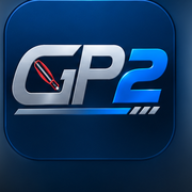
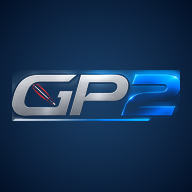
Icono de la app: el GP2 real, y arreglada la causa de la G negra
La causa no era el logo: index.html y login.html no tenian
<link rel="apple-touch-icon">, y iOS no mira el manifest para Agregar a
inicio, mira ese link. Sin el se inventa un icono con la inicial.

Arreglo de fondo: pwa.js inyecta el apple-touch-icon si falta, igual que
ya hacia con manifest y theme-color, y ademas queda escrito en el head
de las cuatro paginas de entrada, porque depender del JS para algo que
iOS lee al instalar es fragil. envios-only.html no tenia nada de PWA: se
le agrego pwa.js.

Iconos rehechos: los que habia eran el favicon de 180px estirado a 512,
o sea borrosos. Ahora salen del logo de 1000px con tools/generar_iconos.py,
que recorta el GP2 metalico con mascara por luminancia y lo apoya sobre un
degradado con los azules de la marca. Antes probe fondo estirado y feather
(los dos dejaban ver el rectangulo del recorte) y usar el favicon de fondo
(daba el GP2 duplicado, porque el favicon ya lo trae dibujado). Genera los
tres del manifest mas apple-touch-icon 180 cuadrado y sin transparencia,
que es lo que iOS necesita para aplicar su propia mascara. Revisado a 180,
120 y 60 px con mascara de iOS y circulo de Android.

Los iconos del manifest llevan token de version: los archivos cambiaron
pero la ruta no, y sin token el telefono se queda con el viejo.

Test nuevo tests/ui/test_pwa_icono.js para que esto no se rompa en
silencio otra vez. Suite 15/15. Version global v1.32.0.

diff --git a/tests/ui/test_pwa_icono.js b/tests/ui/test_pwa_icono.js
@@ -1,0 +1,68 @@
+const { chromium } = require('playwright');
+const path = require('path');
+const fs = require('fs');
+const ROOT_DIR = path.resolve(__dirname, '..', '..');
+const ROOT = 'file://' + ROOT_DIR.replace(/\\/g, '/');
+const EXE = process.env.CHROMIUM_PATH || (fs.existsSync('/opt/pw-browsers/chromium') ? '/opt/pw-browsers/chromium' : undefined);
+
+/* Que el icono de la app llegue al telefono.
+   iOS NO usa el manifest para "Agregar a inicio": usa <link rel="apple-touch-icon">.
+   Cuando index.html y login.html no lo tenian, iOS se inventaba un cuadrado negro
+   con una "G" (2026-08-29). Este test evita que vuelva a pasar en silencio. */
+
+// Paginas desde las que alguien puede agregar la app a la pantalla de inicio.
+// index.html es un redirector (se va solo antes de poder inspeccionar el DOM),
+// asi que ese se chequea sobre el fuente.
+const ENTRADAS = ['GP2_MODULOS.html', 'login.html', 'envios-only.html'];
+
+(async () => {
+  const browser = await chromium.launch(EXE ? { executablePath: EXE } : {});
+  const ok = (c, m) => { console.log((c ? 'OK  ' : 'FAIL') + ' ' + m); if (!c) process.exitCode = 1; };
+
+  // index.html: chequeo sobre el archivo, es la pagina que arranca la app
+  const idx = fs.readFileSync(path.join(ROOT_DIR, 'index.html'), 'utf8');
+  ok(/rel="apple-touch-icon"[^>]*apple-touch-icon\.png/.test(idx),
+     'index.html: declara el apple-touch-icon en el <head>');
+  ok(/rel="manifest"/.test(idx), 'index.html: declara el manifest');
+
+  for (const pagina of ENTRADAS) {
+    const ctx = await browser.newContext();
+    const page = await ctx.newPage();
+    // el login apagado hace que index redirija; se corta la navegacion para
+    // poder inspeccionar el <head> de la pagina pedida
+    await page.route('**/*', r => {
+      const u = r.request().url();
+      if (r.request().isNavigationRequest() && !u.includes(pagina)) return r.abort();
+      return r.continue();
+    });
+    await page.goto(ROOT + '/' + pagina).catch(() => {});
+    await page.waitForTimeout(400);   // pwa.js inyecta lo que falte
+
+    const head = await page.evaluate(() => ({
+      ati: (document.querySelector('link[rel="apple-touch-icon"]') || {}).getAttribute
+        ? document.querySelector('link[rel="apple-touch-icon"]').getAttribute('href') : null,
+      manifest: (document.querySelector('link[rel="manifest"]') || {}).getAttribute
+        ? document.querySelector('link[rel="manifest"]').getAttribute('href') : null,
+    }));
+
+    ok(!!head.ati, pagina + ': tiene apple-touch-icon (' + head.ati + ')');
+    ok(!!head.manifest, pagina + ': tiene manifest');
+    // el favicon viejo NO sirve de icono de app: trae esquinas redondeadas dibujadas
+    ok(!/GP2_favicon/.test(head.ati || ''), pagina + ': el apple-touch-icon no es el favicon viejo');
+    await ctx.close();
+  }
+
+  // los archivos que las paginas prometen tienen que existir de verdad
+  const manifest = JSON.parse(fs.readFileSync(path.join(ROOT_DIR, 'manifest.json'), 'utf8'));
+  for (const ic of manifest.icons) {
+    const rel = ic.src.split('?')[0];
+    ok(fs.existsSync(path.join(ROOT_DIR, rel)), 'existe ' + rel + ' (' + ic.purpose + ')');
+  }
+  ok(fs.existsSync(path.join(ROOT_DIR, 'apple-touch-icon.png')), 'existe apple-touch-icon.png');
+  ok(manifest.icons.some(i => i.purpose === 'maskable'), 'el manifest declara un icono maskable');
+  // sin ?v= los telefonos se quedan con el icono viejo cacheado para siempre
+  ok(manifest.icons.every(i => i.src.includes('?v=')), 'los iconos del manifest llevan token de version');
+
+  await browser.close();
+  console.log(process.exitCode ? 'HAY FALLOS' : 'TODO OK');
+})();

diff --git a/login.html b/login.html
@@ -7,6 +7,7 @@
   <title>Gestión Productiva — Ingresar</title>
   <!-- PWA: el SW lo registra pwa.js al final del body. -->
   <link rel="manifest" href="manifest.json?v=20260829h">
+  <link rel="apple-touch-icon" href="apple-touch-icon.png?v=20260829j">
   <meta name="theme-color" content="#ffffff">
   <link rel="icon" type="image/png" href="GP2_favicon.png?v=1.2.0">
   <link href="https://fonts.googleapis.com/css2?family=Inter:wght@400;500;600;700;800&display=swap" rel="stylesheet">
@@ -87,7 +88,7 @@
       <div class="subtitle">Ingresá con tu cuenta de Google</div>
     </div>
     <div class="version">Versión <b id="appVersion">2.0</b></div>
-    <script src="version.js?v=20260829j"></script>
+    <script src="version.js?v=20260829k"></script>
 
     <button id="btnGoogle" class="btn-google" onclick="loginGoogle()">
       <svg viewBox="0 0 48 48">
@@ -229,6 +230,6 @@
       if (session) procesarSesion(session, "initial");
     })();
   </script>
-  <script src="pwa.js?v=20260829h"></script>
+  <script src="pwa.js?v=20260829j"></script>
 </body>
 </html>

diff --git a/pwa.js b/pwa.js
@@ -42,6 +42,17 @@
     meta.content = "#ffffff";
     document.head.appendChild(meta);
   }
+  // iOS NO mira el manifest para el icono de "Agregar a inicio": mira
+  // <link rel="apple-touch-icon">. Sin eso se inventa uno (el cuadrado negro con
+  // la "G"). Se inyecta aca para que ninguna pantalla quede sin el, pero las
+  // paginas desde las que se instala igual lo llevan escrito en el <head>: es mas
+  // seguro que dependerlo del JS.
+  if (!document.querySelector('link[rel="apple-touch-icon"]')) {
+    var ati = document.createElement("link");
+    ati.rel = "apple-touch-icon";
+    ati.href = base + "apple-touch-icon.png?v=20260829j";
+    document.head.appendChild(ati);
+  }
 
   // --- 2) service worker ---
   // updateViaCache "none" para que el navegador nunca sirva un sw.js cacheado.

diff --git a/GP2_MODULOS.html b/GP2_MODULOS.html
@@ -4,7 +4,7 @@
 <meta name="viewport" content="width=device-width,initial-scale=1">
 <title>GP2 · Menú</title>
 <link rel="icon" type="image/png" href="GP2_favicon.png?v=1.2.0">
-<link rel="apple-touch-icon" href="GP2_favicon.png?v=1.2.0">
+<link rel="apple-touch-icon" href="apple-touch-icon.png?v=20260829j">
 <!-- PWA: con esto Chrome ofrece instalar GP2 y la abre en ventana propia,
      sin barra de direcciones. El SW lo registra pwa.js al final del body. -->
 <link rel="manifest" href="manifest.json?v=20260829h">
@@ -228,5 +228,5 @@ MENU.forEach(([icon, titulo, items]) => {
   grid.appendChild(card);
 });
 </script>
-<script src="pwa.js?v=20260829h"></script>
+<script src="pwa.js?v=20260829j"></script>
 </body></html>

diff --git a/envios-only.html b/envios-only.html
@@ -2,6 +2,8 @@
 <html lang="es">
 <head>
   <script src="auth-guard.js?v=20260829f"></script>
+  <!-- PWA: inyecta manifest, theme-color, apple-touch-icon y registra el SW -->
+  <script src="pwa.js?v=20260829j"></script>
   <meta charset="UTF-8" />
   <meta name="viewport" content="width=device-width, initial-scale=1" />
   <title>Logística</title>
@@ -124,7 +126,7 @@
     <div class="app-version" id="appVersion"></div>
   </div>
 
-  <script src="version.js?v=20260829j"></script>
+  <script src="version.js?v=20260829k"></script>
   <script>
     function cerrarSesion(){
       sessionStorage.clear();

diff --git a/index.html b/index.html
@@ -6,6 +6,7 @@
   <!-- PWA: esta pagina es el start_url del manifest. Redirige enseguida, asi que
        no registra el SW (de eso se encargan GP2_MODULOS.html y login.html). -->
   <link rel="manifest" href="manifest.json?v=20260829h">
+  <link rel="apple-touch-icon" href="apple-touch-icon.png?v=20260829j">
   <meta name="theme-color" content="#ffffff">
   <link rel="icon" type="image/png" href="GP2_favicon.png?v=1.2.0">
   <!-- auth-guard trae el interruptor GP2_AUTH_ON. Aca no controla nada:

diff --git a/Relevamiento/relevamiento.html b/Relevamiento/relevamiento.html
@@ -294,7 +294,7 @@
 
 </div>
 
-<script src="../version.js?v=20260829j"></script>
+<script src="../version.js?v=20260829k"></script>
 <script src="https://cdn.jsdelivr.net/npm/@supabase/supabase-js@2"></script>
 <script src="../tandas-popup.js?v=20260730i"></script>
 <script src="relevamiento.js?v=20260814f"></script>

diff --git a/Inicio/index_GP2.html b/Inicio/index_GP2.html
@@ -315,7 +315,7 @@
     })();
   </script>
 
-  <script src="../version.js?v=20260829j"></script>
+  <script src="../version.js?v=20260829k"></script>
   <script src="https://cdn.jsdelivr.net/npm/@supabase/supabase-js@2"></script>
   <script>
     document.querySelectorAll(".btn-opcion").forEach(btn => {

diff --git a/version.js b/version.js
@@ -1,5 +1,5 @@
 // Versión global de la app. Cambiar acá actualiza todas las pantallas que lo muestren.
-window.APP_VERSION = "v1.31.1";
+window.APP_VERSION = "v1.32.0";
 
 // Inyecta la versión en cualquier elemento con id="appVersion"
 document.addEventListener("DOMContentLoaded", function () {

diff --git a/tools/generar_iconos.py b/tools/generar_iconos.py
@@ -1,0 +1,99 @@
+#!/usr/bin/env python3
+"""
+Genera los iconos de la app GP2 a partir de GP2_logo.png (1000x322, alta resolucion).
+
+Por que existe este script y no unos PNG sueltos:
+  - Los iconos ANTERIORES eran el favicon de 180px estirado a 512 => borrosos en el
+    telefono. Aca se recortan del logo original, que tiene resolucion de sobra.
+  - Si manana cambia el logo, se corre esto y salen todos los tamanos consistentes.
+
+Uso:  python3 tools/generar_iconos.py       (desde la raiz del repo)
+
+Que genera:
+  icons/icon-192.png          PWA, purpose "any"
+  icons/icon-512.png          PWA, purpose "any"
+  icons/icon-maskable-512.png PWA, purpose "maskable" (Android le recorta un circulo:
+                              el contenido tiene que entrar en el 80% central)
+  apple-touch-icon.png        iOS 180x180. CUADRADO y SIN transparencia: iOS aplica su
+                              propia mascara redondeada, si el PNG ya viene con esquinas
+                              redondeadas quedan esquinas dentro de esquinas.
+"""
+import math
+
+from PIL import Image, ImageFilter
+
+LOGO = "GP2_logo.png"
+# Recorte del "GP2" dentro del logo: las letras metalicas + el destornillador rojo
+# adentro de la G + la barra plateada y las rayitas. Sin "GESTION PRODUCTIVA", que a
+# 192px no se lee y solo ensucia.
+CROP = (285, 45, 955, 250)
+
+# Cuanto del ancho ocupa la marca en cada variante.
+ANCHO_ANY      = 0.88   # el resto es aire para que la mascara del SO no coma las puntas
+ANCHO_MASKABLE = 0.66   # zona segura de maskable: circulo del 80% => la marca va mas chica
+
+
+def marca():
+    """El GP2 recortado del logo, en resolucion nativa."""
+    return Image.open(LOGO).convert("RGB").crop(CROP)
+
+
+# Colores de marca: azul medio detras de la marca, navy en las esquinas.
+AZUL_CENTRO = (26, 63, 104)
+AZUL_BORDE = (2, 16, 38)
+
+
+def lienzo(lado):
+    """
+    Fondo cuadrado sintetico: degradado radial con los azules de la marca.
+    No se usa el favicon como fondo porque el favicon YA trae el GP2 dibujado:
+    pegarle la marca encima daba el GP2 duplicado (probado, se veia el fantasma).
+    """
+    f = Image.new("RGB", (lado, lado))
+    px = f.load()
+    c = lado / 2
+    for y in range(lado):
+        for x in range(lado):
+            t = min(1.0, math.hypot(x - c, y - c) / (c * 1.42)) ** 1.25
+            px[x, y] = tuple(int(a * (1 - t) + b * t)
+                             for a, b in zip(AZUL_CENTRO, AZUL_BORDE))
+    return f
+
+
+def mascara(m):
+    """
+    Alpha de las letras, sacada de la luminancia: el fondo del logo es azul oscuro
+    y las letras son claras. Asi la marca queda RECORTADA y flota sobre el
+    degradado, sin el rectangulo del recorte (con un simple desvanecido de bordes
+    el rectangulo se seguia viendo).
+    """
+    a = m.convert("L").point(
+        lambda v: 0 if v < 55 else (255 if v > 95 else int((v - 55) * 255 / 40)))
+    return a.filter(ImageFilter.GaussianBlur(0.8))
+
+
+def armar(lado, ancho_rel):
+    m = marca()
+    fondo = lienzo(lado)
+    ancho = int(lado * ancho_rel)
+    alto = max(1, round(m.height * ancho / m.width))
+    pos = ((lado - ancho) // 2, (lado - alto) // 2)
+    fondo.paste(m.resize((ancho, alto), Image.LANCZOS), pos,
+                mascara(m).resize((ancho, alto), Image.LANCZOS))
+    return fondo
+
+
+def main():
+    salidas = [
+        ("icons/icon-192.png", 192, ANCHO_ANY),
+        ("icons/icon-512.png", 512, ANCHO_ANY),
+        ("icons/icon-maskable-512.png", 512, ANCHO_MASKABLE),
+        ("apple-touch-icon.png", 180, ANCHO_ANY),
+    ]
+    for ruta, lado, ancho in salidas:
+        armar(lado, ancho).save(ruta, "PNG", optimize=True)
+        print(f"{ruta}  {lado}x{lado}  marca al {int(ancho*100)}% del ancho")
+
+
+if __name__ == "__main__":
+    main()

diff --git a/tests/README.md b/tests/README.md
@@ -20,6 +20,7 @@ base): verifican payloads de RPC, filtros, cálculos en pantalla y flujos comple
 | test_bom.js | Editor de BOM del ABM Artículos |
 | test_ps_em.js | Punto de Stock: tag EM en máximos derivados de Est Madre |
 | test_inicio_pend.js | Alerta de cargas de Virgilio sin aplicar (espejo_pend) |
+| test_pwa_icono.js | El icono de la app llega al telefono: apple-touch-icon en las 4 paginas de entrada, iconos del manifest existentes, maskable declarado y con token de version |
 | test_recepcion_oc.js | Recepción: la tarjeta muestra "últ. 360 kg" (sin fecha) y "OC: 640" (lo que falta de las OC abiertas) |
 | test_inyectores.js | Inyectores: botonera por proveedor, asignar/desasignar (payload de la RPC), aviso de partes que fabrica un tallerista, resumen y chips de rubro |
 
